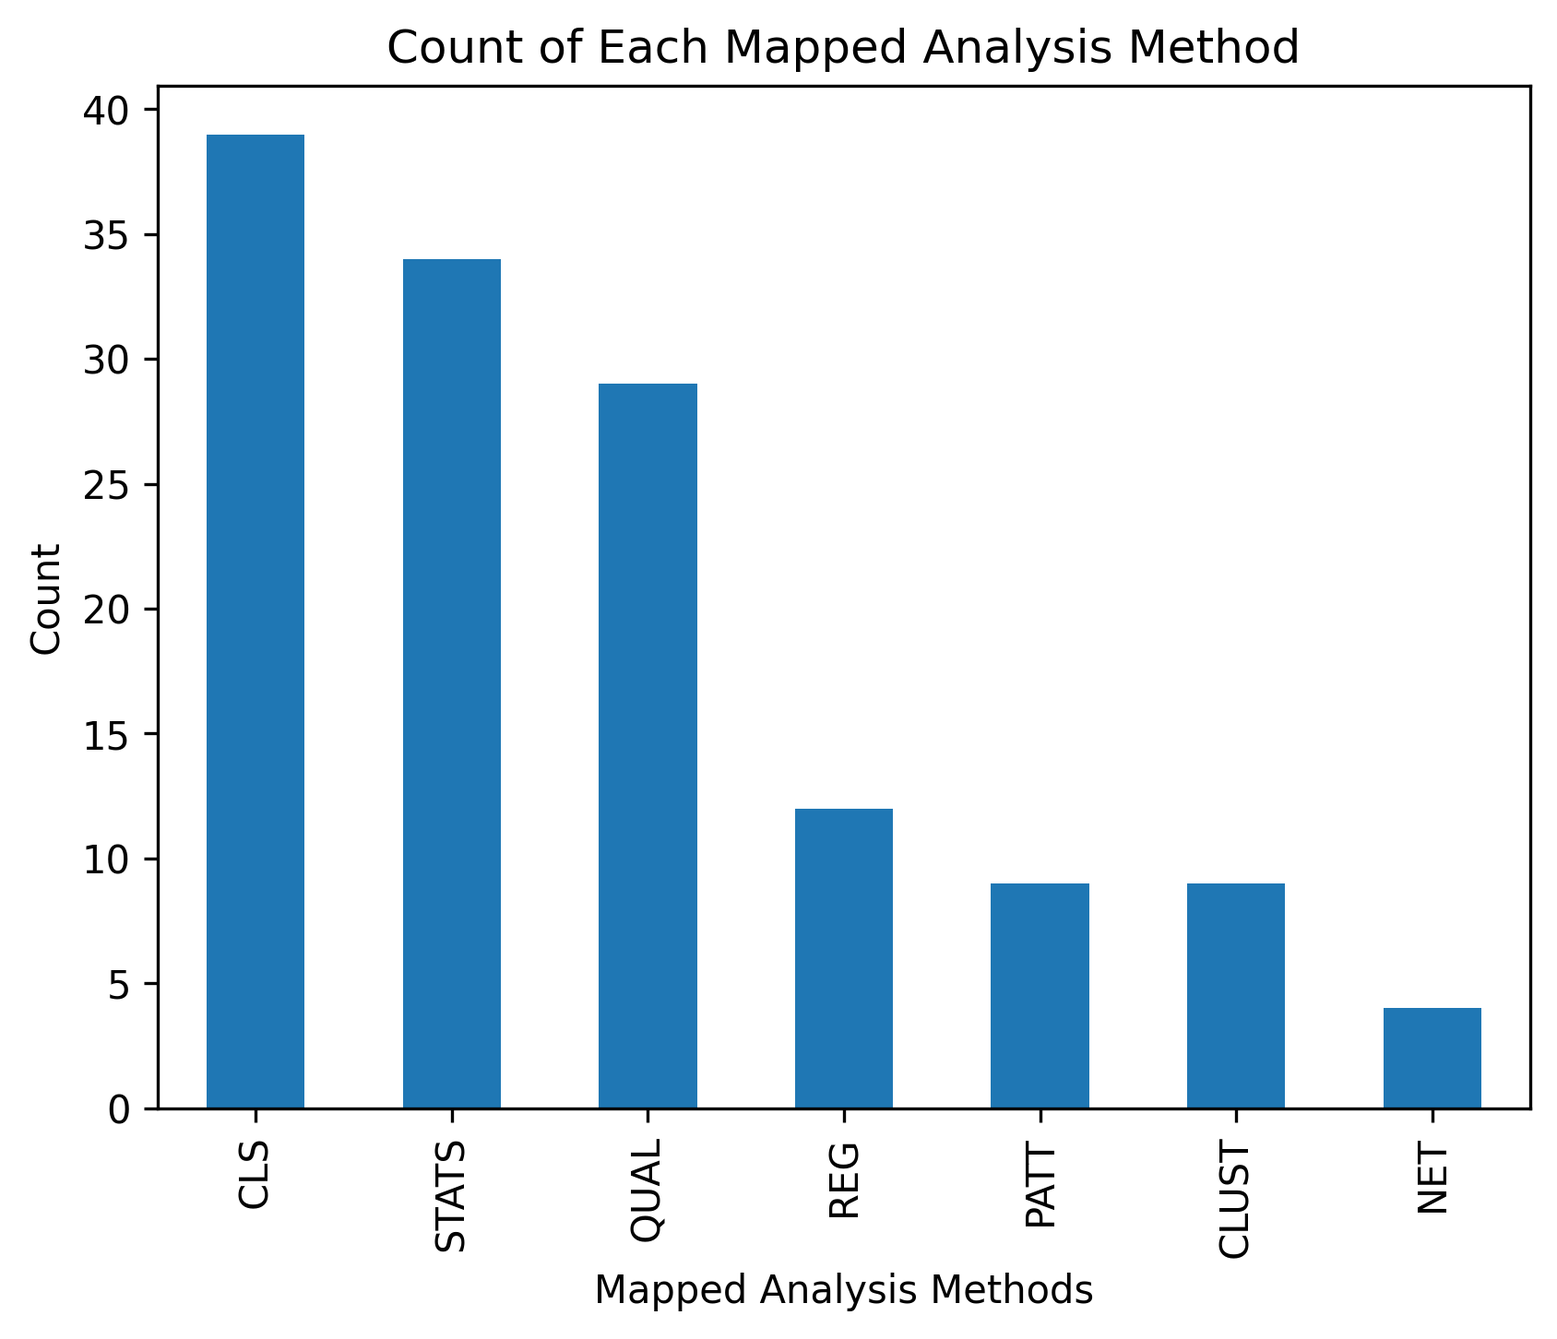
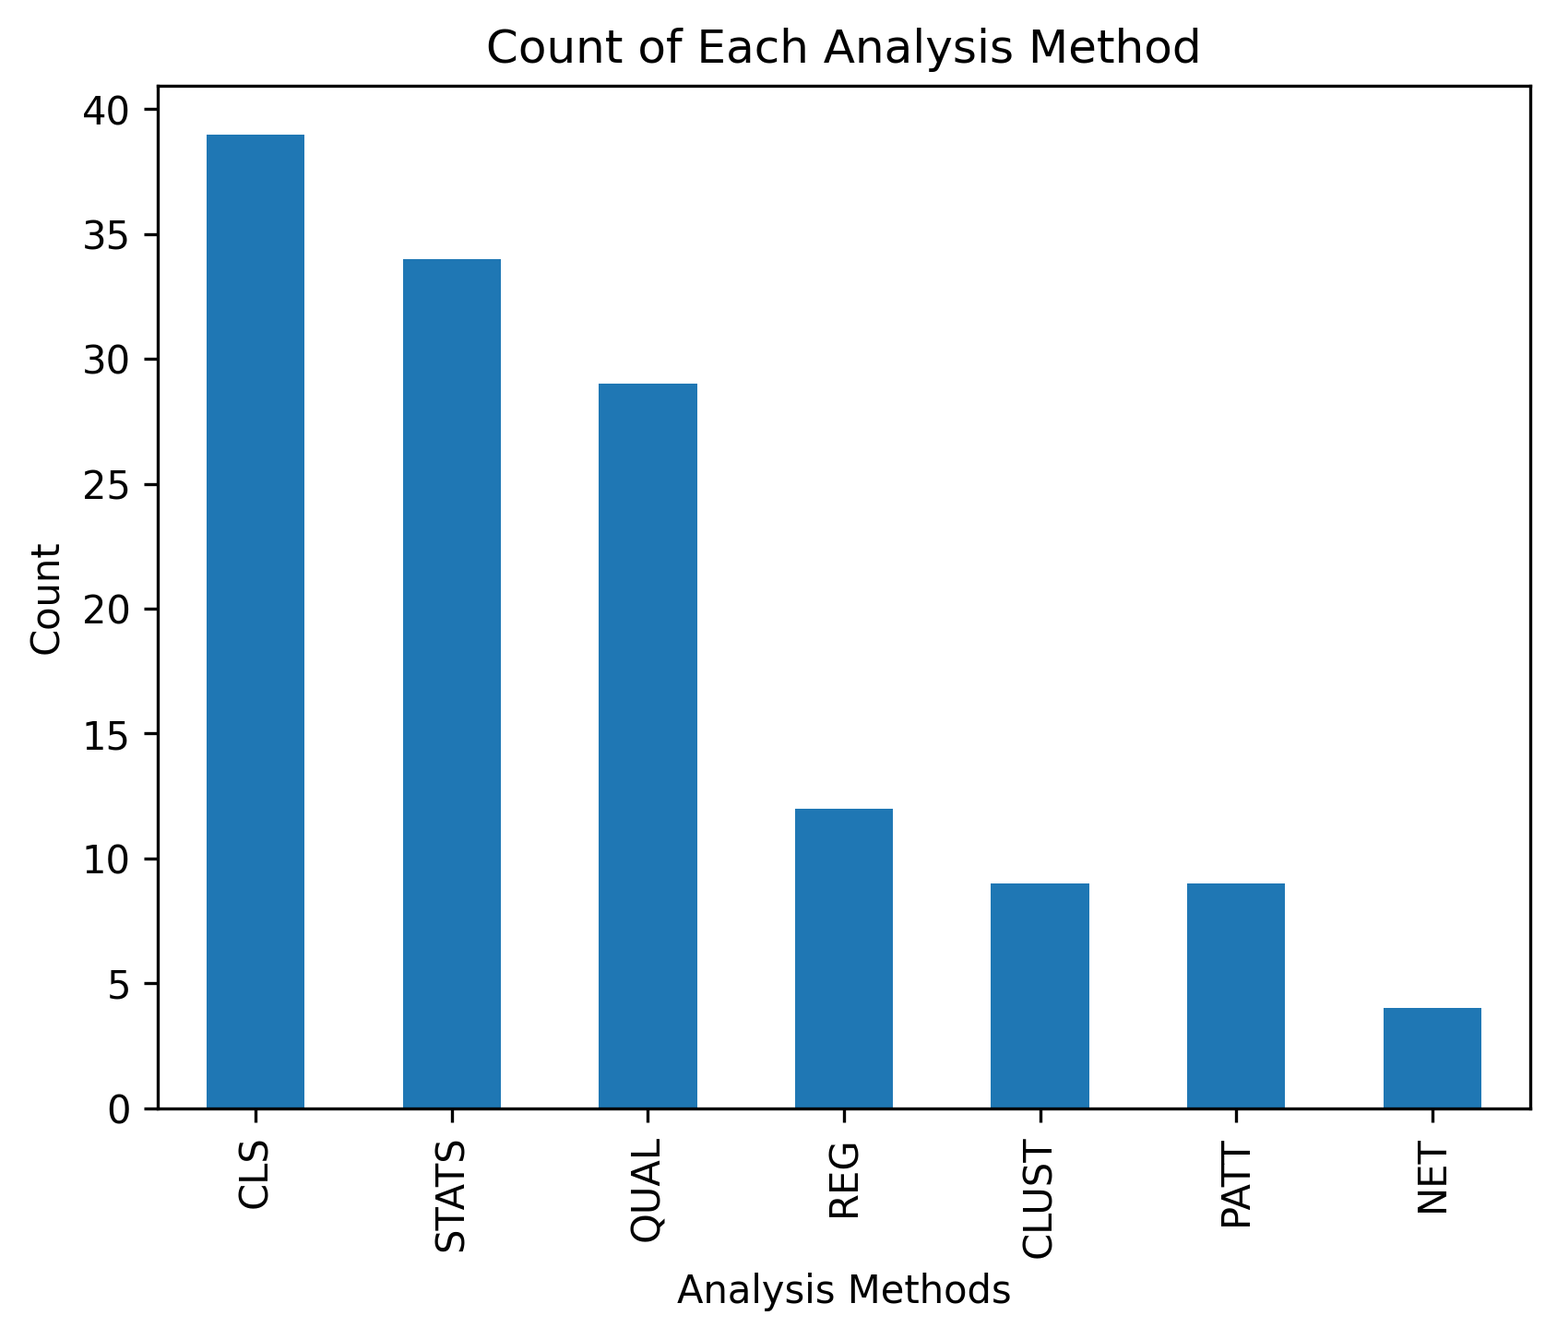
analysis added, figures updated

Changed region(s): [[0.2464, 0.0, 0.8318, 0.062], [0.3697, 0.8368, 0.7085, 0.9917], [0.7701, 0.8678, 0.8009, 0.9298]]

diff --git a/Examining Multimodal Methods for Analyzing Learning and Training Environments A Systematic Literature Review (ACM Computing Surveys)/main.tex b/Examining Multimodal Methods for Analyzing Learning and Training Environments A Systematic Literature Review (ACM Computing Surveys)/main.tex
@@ -407,9 +407,46 @@ However, it is important to note that this division isn't always clear-cut. Some
 % motion capture (posyx, accelerometer, gyroscope, magnetometer)
 % Make point that things like learning gains and performance can fall into multiple categories depending on where derived from, e.g., logs, surveys, student artifacts (which can also be demo information)
 
+% VID. Sequence of video frames from a camera source
+% AUD. Audio signals captured and converted by a microphone
+% SCREEN. Sequence of video frames of the contents displayed on a device screen
+% EYE. Eye movement data and gaze points captured by a tracking devices with sensors and cameras 
+% LOGS. Environment logs containing data on participants' activities and interactions within the system
+% SENSOR. Specialized sensors used to gather participants' physiological data, such as photoplethysmography (PPG), electrodermal activity (EDA), and blood volume pulse (BVP)
+% INTER. Structured or unstructured conversations between researchers and participants, i.e. interviews
+% SURVEY. Standardized sets of questions administered to participants, such as surveys or questionnaires 
+% PPA (Participant Produced Artifacts). Materials produced by research participants using different mediums, such as physical objects or pre/post test scores
+% RPA (Researcher Produced Artifacts). Materials produced by the researchers which contribute to analysis and findings, such as field observation notes
+% MOTION. Raw motion data collected by different devices/technologies, such as Inertial Measurement Units (IMU) or Ultra-Wideband (UWB) radio signals
+% TEXT. Raw textual input
+
 
 \subsection{Modalities} \label{sec:Modalities}
 % Definitions
+
+% AFFECT. The emotional state or affect exhibited by the participant
+% POSE. The physical position or geolocation of the participant
+% GEST. The gestures and body language displayed by the participant
+% ACT. The observable actions or activities performed by the participant
+% PROS. Prosodic speech information, including aspects like volume,  pauses, pitch, intonation.
+% TRANS. Textual speech information obtained through speech transcription, i.e., speech-to-text
+% QUAL. Qualitative researcher observations on the participant's behavior or environment
+% LOGS. Data related to the research context and participant' activities, interactions, and performance within the system
+% GAZE. Data on the direction and focus of the participant's eye gaze
+% INTER. Notes from interviews between researcher and participant
+% SURVEY. Responses to survey/questionnaire provided by the participant
+% PULSE. The participant's pulse, indicating their heart rate
+% EDA. Participant's electrodermal activity, measuring skin conductance as an indicator of arousal
+% TEMP. Participant’s body temperature
+% BP. Participant’s blood pressure 
+% EEG. Participant's electroencephalography activity, recording brain electrical signals
+% FATIG. The level of fatigue experienced by the participant during the activity
+% EMG. Participant's electromyography activity, measuring muscle electrical signals
+% PPA (Participant Artifacts). Artifacts produced by the participant
+% RPA (Researcher Artifacts). Artifacts produced by the researcher
+% SPECT (Audio Spectrogram). Visual representation of audio frequencies in the form of a spectrogram
+% TEXT. Raw text data generated by the participant in the study environment
+% PIXEL. Raw RGB pixel values representing visual information captured by cameras or sensors
 
 
 \subsection{Analysis Methods}
@@ -417,6 +454,14 @@ However, it is important to note that this division isn't always clear-cut. Some
 % Pattern extraction analysis usually refers to identifying sequences, but can be other types of patterns (include examples, revisit later). Used as catch-all for when patterns are identified but do not fall under other subsets of pattern extraction like clustering. Sequwnce mining, some HMM applications, etc.
 % Define classification for our purposes as using an algorithm to predict an output in a discrete space. Mention RL paper as using RL but falling into classification category by our definition. 
 % Add caveat that analysis methods refers to analysis only of the data and not of the actual analysis, unless analysis of the analysis provides more information about the data (show examples)
+
+% CLS (Classification)*.
+% REG (Regression)*.
+% CLUST (Clustering)*.
+% QUAL (Qualitative)*.
+% STATS (Statistical Methods). Statistical methods such as central tendency, ANOVA, correlation, etc. 
+% NET (Network Analysis). Any analysis consisting of graph-based approaches, e.g. ENA.
+% PATT (Pattern Extraction). Extracting patterns from data, such as sequence mining.
 
 
 \subsection{Data Fusion}
@@ -833,7 +878,7 @@ No trend among environment settings really except virtual environments less freq
 % NLP: {'PHYS': 13, 'VIRT': 13, 'BLND': 8, 'UNSP': 1}
 % ALL: {'BLND': 20, 'PHYS': 21, 'VIRT': 31, 'UNSP': 2}
 
-Even with 4:3 ratio of ind to multi in corpus overall, ratio of ind to multi drops to 3:5 with NLP only due to focus on multiperson environments, including conversation. Not surprising given discourse component, but would also be interested in agent-based conversations (which were lacking).
+Even with 4:3 ratio of ind to multi in corpus overall, ratio of ind to multi drops to 3:5 with NLP only due to focus on multiperson environments, including conversation. Not surprising given discourse component, but would also be interested in agent-based conversations (which were lacking). 
 % NLP: {'MULTI': 23, 'IND': 14}
 % ALL: {'IND': 45, 'MULTI': 31}
 
@@ -855,7 +900,7 @@ NLP has higher level of model free relative to corpus (17/41, 41\% relative to 2
 
 % SOTA 
 
--Data visualization
+-Data visualization (cite ChimeraPy IEE Big Data) 
 
 -ML models are the most common quantitative approach: SVM, RF, Logistic regression, linear regression, NB, etc.
     -Usually used to regress/classify outcome (i.e., performance gains for learning/training)
@@ -876,7 +921,6 @@ NLP has higher level of model free relative to corpus (17/41, 41\% relative to 2
         -Esp. with adolescents and in noisy environments (cite LID, LAK)
         -English only
         -"state-of-the-art diarization system does not perform well on real child-speech interactions"
-    -ASR issues
     -Speaker diarization
 -Data
     -Small datasets 
@@ -938,6 +982,65 @@ Only 14 out of the 59 papers using Vision did a significant combination of quali
 % List # of papers falling into this subdomain
 % List Modalities
 % AFFECT, POSE, EDA, PULSE, ACT, BP, TEMP, EEG, EMG, FATIG, GAZE
+\textbf{Utilization of Wearable Sensory Data in the Matched Studies}
+
+1. Monitoring Emotional and Physiological States: Many studies use wearable sensors to track physiological responses (heart rate variability, skin temperature, EDA) and correlate them with emotional states (e.g., stress, arousal) during learning activities like coding workshops and classroom environments.
+
+2. Behavior and Performance Prediction: Wearable sensors, in combination with other modalities like eye-tracking and Kinect cameras, are used to predict behaviors like effort in assessments, performance in CPR training, and engagement in game-based learning.
+
+3. Real-time Feedback and Adaptation: In studies like CPR training, wearable data is used to provide real-time feedback. Also, in classroom environments, data from wearables is used to adaptively recommend learning activities.
+
+4. Multimodal Data Integration: Several studies integrate data from wearables with other sources, like Kinect-based posture data and facial cameras, for a comprehensive analysis of the learning process.
+
+\textbf{Challenges Identified in These Studies}
+
+1. Data Integration and Interpretation: Combining and interpreting data from various sensors and modalities to provide meaningful insights is a recurring challenge.
+
+2. Balancing Accuracy and Practicality: Ensuring that the data collected is both accurate and practically useful for real-time applications, such as in CPR training feedback.
+
+3. Contextual Relevance: Ensuring that the sensor data is relevant and accurately reflects the learning context, especially in dynamic and interactive environments like game-based learning or collaborative tasks.
+
+4. Technical Limitations and Complexity: Dealing with the technical complexities of processing and analyzing multimodal data streams, especially when employing advanced machine learning techniques.
+
+\textbf{State-of-the-Art Techniques in These Studies}
+
+1. Advanced Predictive Modeling: Using machine learning and AI techniques, like support vector machines, deep neural networks, and reinforcement learning for predictive analysis.
+
+2. Real-Time Feedback Systems: Developing systems that can process sensor data in real-time to provide immediate feedback, as seen in CPR training.
+
+3. Effective Multimodal Data Fusion: Employing sophisticated data fusion techniques, such as feature-level concatenation, for enhanced predictive accuracy.
+
+\textbf{Potential Gaps and Future Directions}
+
+1. Long-Term Impact Analysis: Most studies focus on immediate or short-term effects; long-term studies to assess the sustained impact of these technologies are needed.
+
+2. Broader Demographic and Contextual Application: Expanding research to include diverse learning contexts and demographic groups to understand the broader applicability of these technologies.
+
+3. Scalability and Generalizability: Research often happens in controlled environments; scaling these technologies for widespread use and ensuring their generalizability remains a challenge.
+
+4. User Experience and Acceptance: More research is needed on how learners perceive and interact with these technologies, especially in terms of comfort, usability, and perceived effectiveness.
+Notes: \textbf{Storytelling With Learner Data: Guiding Student Reflection on Multimodal Team Data: To me this is the most interesting one, because of its realistic application in real world; the data seems limited and does not have IMU data and the data was logged by observer can be treated as ground truth. A more sophisticated model should be implemented.}
+
+\textbf{More in-depth:}
+
+\textbf{Missing Data-Driven Methods to Utilize Wearable Sensory Data}
+
+\begin{enumerate}
+    \item \textbf{Granular Data Analysis}: There's a need for more sophisticated data-driven methods that can delve into the finer details of wearable sensor data, such as identifying subtle patterns or correlations that might not be apparent with traditional analysis techniques.
+    \item \textbf{Contextual and Behavioral Analytics}: Advanced analytics that can contextualize sensor data in real-time learning scenarios, linking physiological responses to specific learning activities or cognitive processes.
+\end{enumerate}
+\textbf{Lack of Visualization of Sensory Data}
+
+\begin{enumerate}
+    \item \textbf{Interactive Data Visualization}: Current studies often lack robust visual representations of the data collected from wearables. Interactive and intuitive visualizations can aid in understanding complex datasets, revealing patterns and trends in physiological responses and their triggers.
+    \item \textbf{Visual Correlation with Learning Events}: Visualizing how sensor data aligns with specific learning events or actions can provide deeper insights into the learning process, such as identifying triggers for stress, engagement, or confusion.
+\end{enumerate}
+\textbf{Lack of Usage in Explainable AI (XAI) Methods}
+
+\begin{enumerate}
+    \item \textbf{Attribution-Based Methods}: The application of XAI, particularly attribution-based methods, is not extensively explored in these studies. Such methods could offer clarity on how different input features (sensor data) contribute to the model's predictions, enhancing the interpretability of AI-driven analyses in educational research.
+    \item \textbf{Transparency in AI Models}: Incorporating XAI could also help in demystifying the decision-making process of AI models, especially when these models are used for predictive analytics or adaptive learning systems.
+\end{enumerate}
 
 % SOTA
 % Challenges
@@ -955,13 +1058,13 @@ Only 14 out of the 59 papers using Vision did a significant combination of quali
 
 - QUAL 14, INTER 10, SURVEY 10, RPA 12, \textbf{PPA 19}
 
--Out of 45 papers, \textbf{0 have all 5} modalities, \textbf{1 has 4} modalities, \textbf{3 have 3} modalities, \textbf{11 have 2} modalities, \textbf{30 have 1} modality (QUAL 6, INTER 3, SURVEY 6, RPA 6, PPA 9)
+-Out of 45 papers, \textbf{0 have all 5} modalities, \textbf{1 has 4} modalities, \textbf{3 have 3} modalities, \textbf{11 have 2} modalities, \textbf{30 have 1} modality of the 5 (QUAL 6, INTER 3, SURVEY 6, RPA 6, PPA 9)
 
--Combinations (number of papers >3) QUAL + PPA: 6, INTER + PPA: 4, SURVEY + PPA: 4, RPA + PPA: 4
+-Modalities that appear more frequently together: QUAL + PPA paired in 4 papers, PPA + RPA paired in 4 papers, INTER + QUAL paired in 4 papers
 
--Only 1 of 45 papers doesn't have non-human-centered modalities (it is a paper that does clustering and regression using only RPA)
+-Only 1 of 45 papers doesn't have other non-human-centered modalities (it is a paper that does clustering and regression using only RPA)
 
-- Looking at analysis methods for the 45 papers: STATS 25, CLS 21, \textbf{QUAL 12}, CLUST 5, PATT 5, REG 4, NET 2
+- Looking at analysis methods for the 45 papers: \textbf{STATS 22}, CLS 8, \textbf{QUAL 14}, CLUST 5, PATT 7, REG 5, NET 2: using human-centered data for statistical and qualitative analysis predominantly
 
 \noindent\rule{2cm}{0.4pt}
 
@@ -979,16 +1082,15 @@ The prevalence of Participant Artifacts (PPA) suggests a notable emphasis on uti
 - Challenges: While a human-centered approach in multimodal learning analytics brings valuable insights, it also poses several challenges related to subjectivity, scalability, resource intensiveness, and potential limitations in generalizability. Due to the inherent subjectivity of human-centered modalities, the analysis of this data may be susceptible to the influence of the researcher's perspective, possibly introducing bias into the interpretation. Furthermore, these approaches often are resource-intensive, requiring trained researchers for data collection and analysis. Manual collection and human analysis can be time-consuming and may not scale well, especially in large-scale educational settings. Nevertheless, human-centered approaches may offer more transparent and interpretable insights than automated methods.
 
 % Research gaps
--GAPS
+-Research gaps:
+
 % Results achieved
     % Advantages of multi-modal over uni-modal
-- Advantages of multi-modal: By integrating multiple modalities, researchers can gain a more comprehensive understanding of the learning environment. This human-centered approach offers insights into the participants' experiences, perceptions, and behaviors, often pinpointing subtle nuances that might be missed in a unimodal analysis.
-    
-    QUAL provides rich contextual observations, PPA and RPA offer tangible artifacts, INTER captures in-depth discussions, and SURVEY provides multiple participant perspectives, collectively enriching the analysis. The use of multiple modalities allows for triangulation and cross-verification, where findings from different sources are compared to enhance the validity of the results.
+- Advantages of multi-modal: By integrating multiple modalities, researchers can gain a more comprehensive understanding of the learning environment. This human-centered approach offers insights into the participants' experiences, perceptions, and behaviors, often pinpointing subtle nuances that might be missed in a unimodal analysis. QUAL provides rich contextual observations, PPA and RPA offer tangible artifacts, INTER captures in-depth discussions, and SURVEY provides multiple participant perspectives, collectively enriching the analysis. The use of multiple modalities allows for triangulation and cross-verification, where findings from different sources are compared to enhance the validity of the results.
     
 \subsubsection{Logs}
 % List # of papers falling into this subdomain
-30 papers that use LOGS for their modalities analysis (40\% of the entire corpus). Log modality/medium was expected to be the largest group based on traditional LA and its role in contexualizing complimentary data.
+30 papers that use LOGS for their modalities analysis (40\% of the entire corpus). Log modality/medium stem from traditional LA and its role in contextualizing complementary data, along with video and audio.
 
 % List Modalities
 Since LOGS is its own modality and medium, I list below the counts of complimentary modalities:
@@ -1010,38 +1112,68 @@ Since LOGS is its own modality and medium, I list below the counts of compliment
 -EEG: 2 (1.6\%)
 -FATIG: 2 (1.6\%)
 -TEXT: 1 (0.8\%)
+The distribution of complementary modalities matches that of the entire corpus.
 
-% QUAL vs QUANT
--QUANT: 12
--QUAL: 7
--Mixed Methods: 11
+% Analysis: QUAL vs QUANT
+Logs are slightly used more in quantitative and mixed methods, yet relatively close to the corpus as a whole.
+% {'QUANT': 12, 'MM': 11, 'QUAL': 7}
+% {'QUANT': 40.0, 'MM': 36.67, 'QUAL': 23.33}
+% {'MM': -5.80, 'QUANT': 3.01, 'QUAL': 2.78}
 
 % Fusion
 No early, largely because AI methods aren't trained to raw logs.
--EARLY: 0
--MID: 11 (34\%)
--LATE: 4 (13\%)
--HYBRID: 10 (31\%)
--OTH: 7 (22\%)
+% {'mid': 11, 'hybrid': 10, 'oth': 7, 'late': 4}
+% {'mid': 34.38, 'hybrid': 31.25, 'oth': 21.88, 'late': 12.5}
+% {'mid': -0.70, 'oth': -4.09, 'hybrid': 6.57, 'late': 2.11, 'early': -3.9}
 
 % Environment Setting
+Except for 1 physical study, most of the log corpus generates their logs from computer-based systems where the end-user has a direct interface. 
+% {'virtual': 16, 'blended': 12, 'physical': 1, 'unspecified': 1}
+% {'virtual': 53.33, 'blended': 40.0, 'physical': 3.33, 'unspecified': 3.33}
+% {'virtual': 11.44, 'physical': -25.05, 'blended': 12.97, 'unspecified': 0.63}
 
 % Participant Structure
+Within log-generating learning systems, individual activities compose 70\% of the corpus, compared to multi-person activities. Digital collaborative environments impose higher engineering and development costs; thereby, computer-based and blended studies heavily focus on individual students' trace logs.
+% {'individual': 21, 'multi-person': 9}
+% {'individual': 70.0, 'multi-person': 30.0}
+% {'individual': 10.79, 'multi-person': -10.79}
 
 % Didactic Nature
+No trends in didactic nature related to the general corpus.
+% {'instructional': 18, 'informal': 7, 'training': 5}
+% {'instructional': 60.0, 'informal': 23.33, 'training': 16.67}
+% {'instructional': -1.64, 'training': -3.88, 'informal': 6.89, 'unspecified': -1.37}
 
-% Grade Level
+% Level of Instruction or Training
+Logs are heavily used in undergrad population, with similar trends across different instruction levels.
+% {'undergraduate': 17, 'k-12': 9, 'graduate': 4, 'k12': 3, 'unspecified': 1}
+% {'undergraduate': 50.0, 'k-12': 26.47, 'graduate': 11.76, 'k12': 8.82, 'unspecified': 2.94}
+% {'undergraduate': 10.47, 'k-12': -0.27, 'graduate': 0.13, 'k12': 0.68, 'unspecified': -5.20, 'professional development': -5.81}
 
 % MB vs MF
+More model-based methods compared to model-free with respect to the general corpus.
+% {'model-based': 23, 'model-free': 9}
+% {'model-based': 71.88, 'model-free': 28.12}
+% {'model-based': 4.019999999999996, 'model-free': -4.02}
 
-% SOTA
+% SOTA (TODO)
+- Learning outcomes:
+    - Predicting learning variables (ML)
+    - Student subtyping
+- Cognitive and Metacognitive Analysis:
+    - Sequence analysis (Markov)
 
 % Challenges
-Time alignment (difficult to manually align to video/audio)
-Learning environment dependent analysis
-Generalizability constraints
+- Time alignment (less combined with other hard-to-align modalities like physiological signals)
+- Learning environment-dependent analysis
+- Generalizability constraints
+- High barrier entry to computer-based collaborative environments
 
 % Research gaps
+- Log standards exist to improve generalizability but are not referenced/used. [CITATION NEEDED]
+- Results reproduction, transferring methods across different learning environments and contexts.
+- Visualizations of logs data to important end-users (teachers)
+- Low integration with EdTech (LTI, LMS, LXP)
 
 % Results achieved
     % Advantages of multi-modal over uni-modal
@@ -1075,10 +1207,14 @@ Generalizability constraints
 % Descriptive statistics for:
 %   Analysis Methods
 %   Analysis Approaches (MB v. MF)
+% Add plots here
+
 
 \subsubsection{Model-Based}
+% Obtain profiles for MB and MF corpus
 
 \subsubsection{Model-Free}
+% Obtain profiles for MB and MF corpus
 
 
 \subsection{Feedback}
@@ -1185,11 +1321,13 @@ Generalizability constraints
         % Diversity:
         %  "...the subject pool is not overly diverse, limiting our ability to explore culture or ethics-related factors in the model reliably"
         % "Obtaining and labelling data is indeed a costly process especially in the context of education"
-
+        % 
     % Research gaps
     %   Domain specificity and lack of generalizable approaches
     %   Small/imbalanced/unrepresentative data (need large open sets)
     %   Multimodal, conversational agents
+    %   Lack of longitudinal work
+    %   XAI
     
 \subsection{Implications}
 
